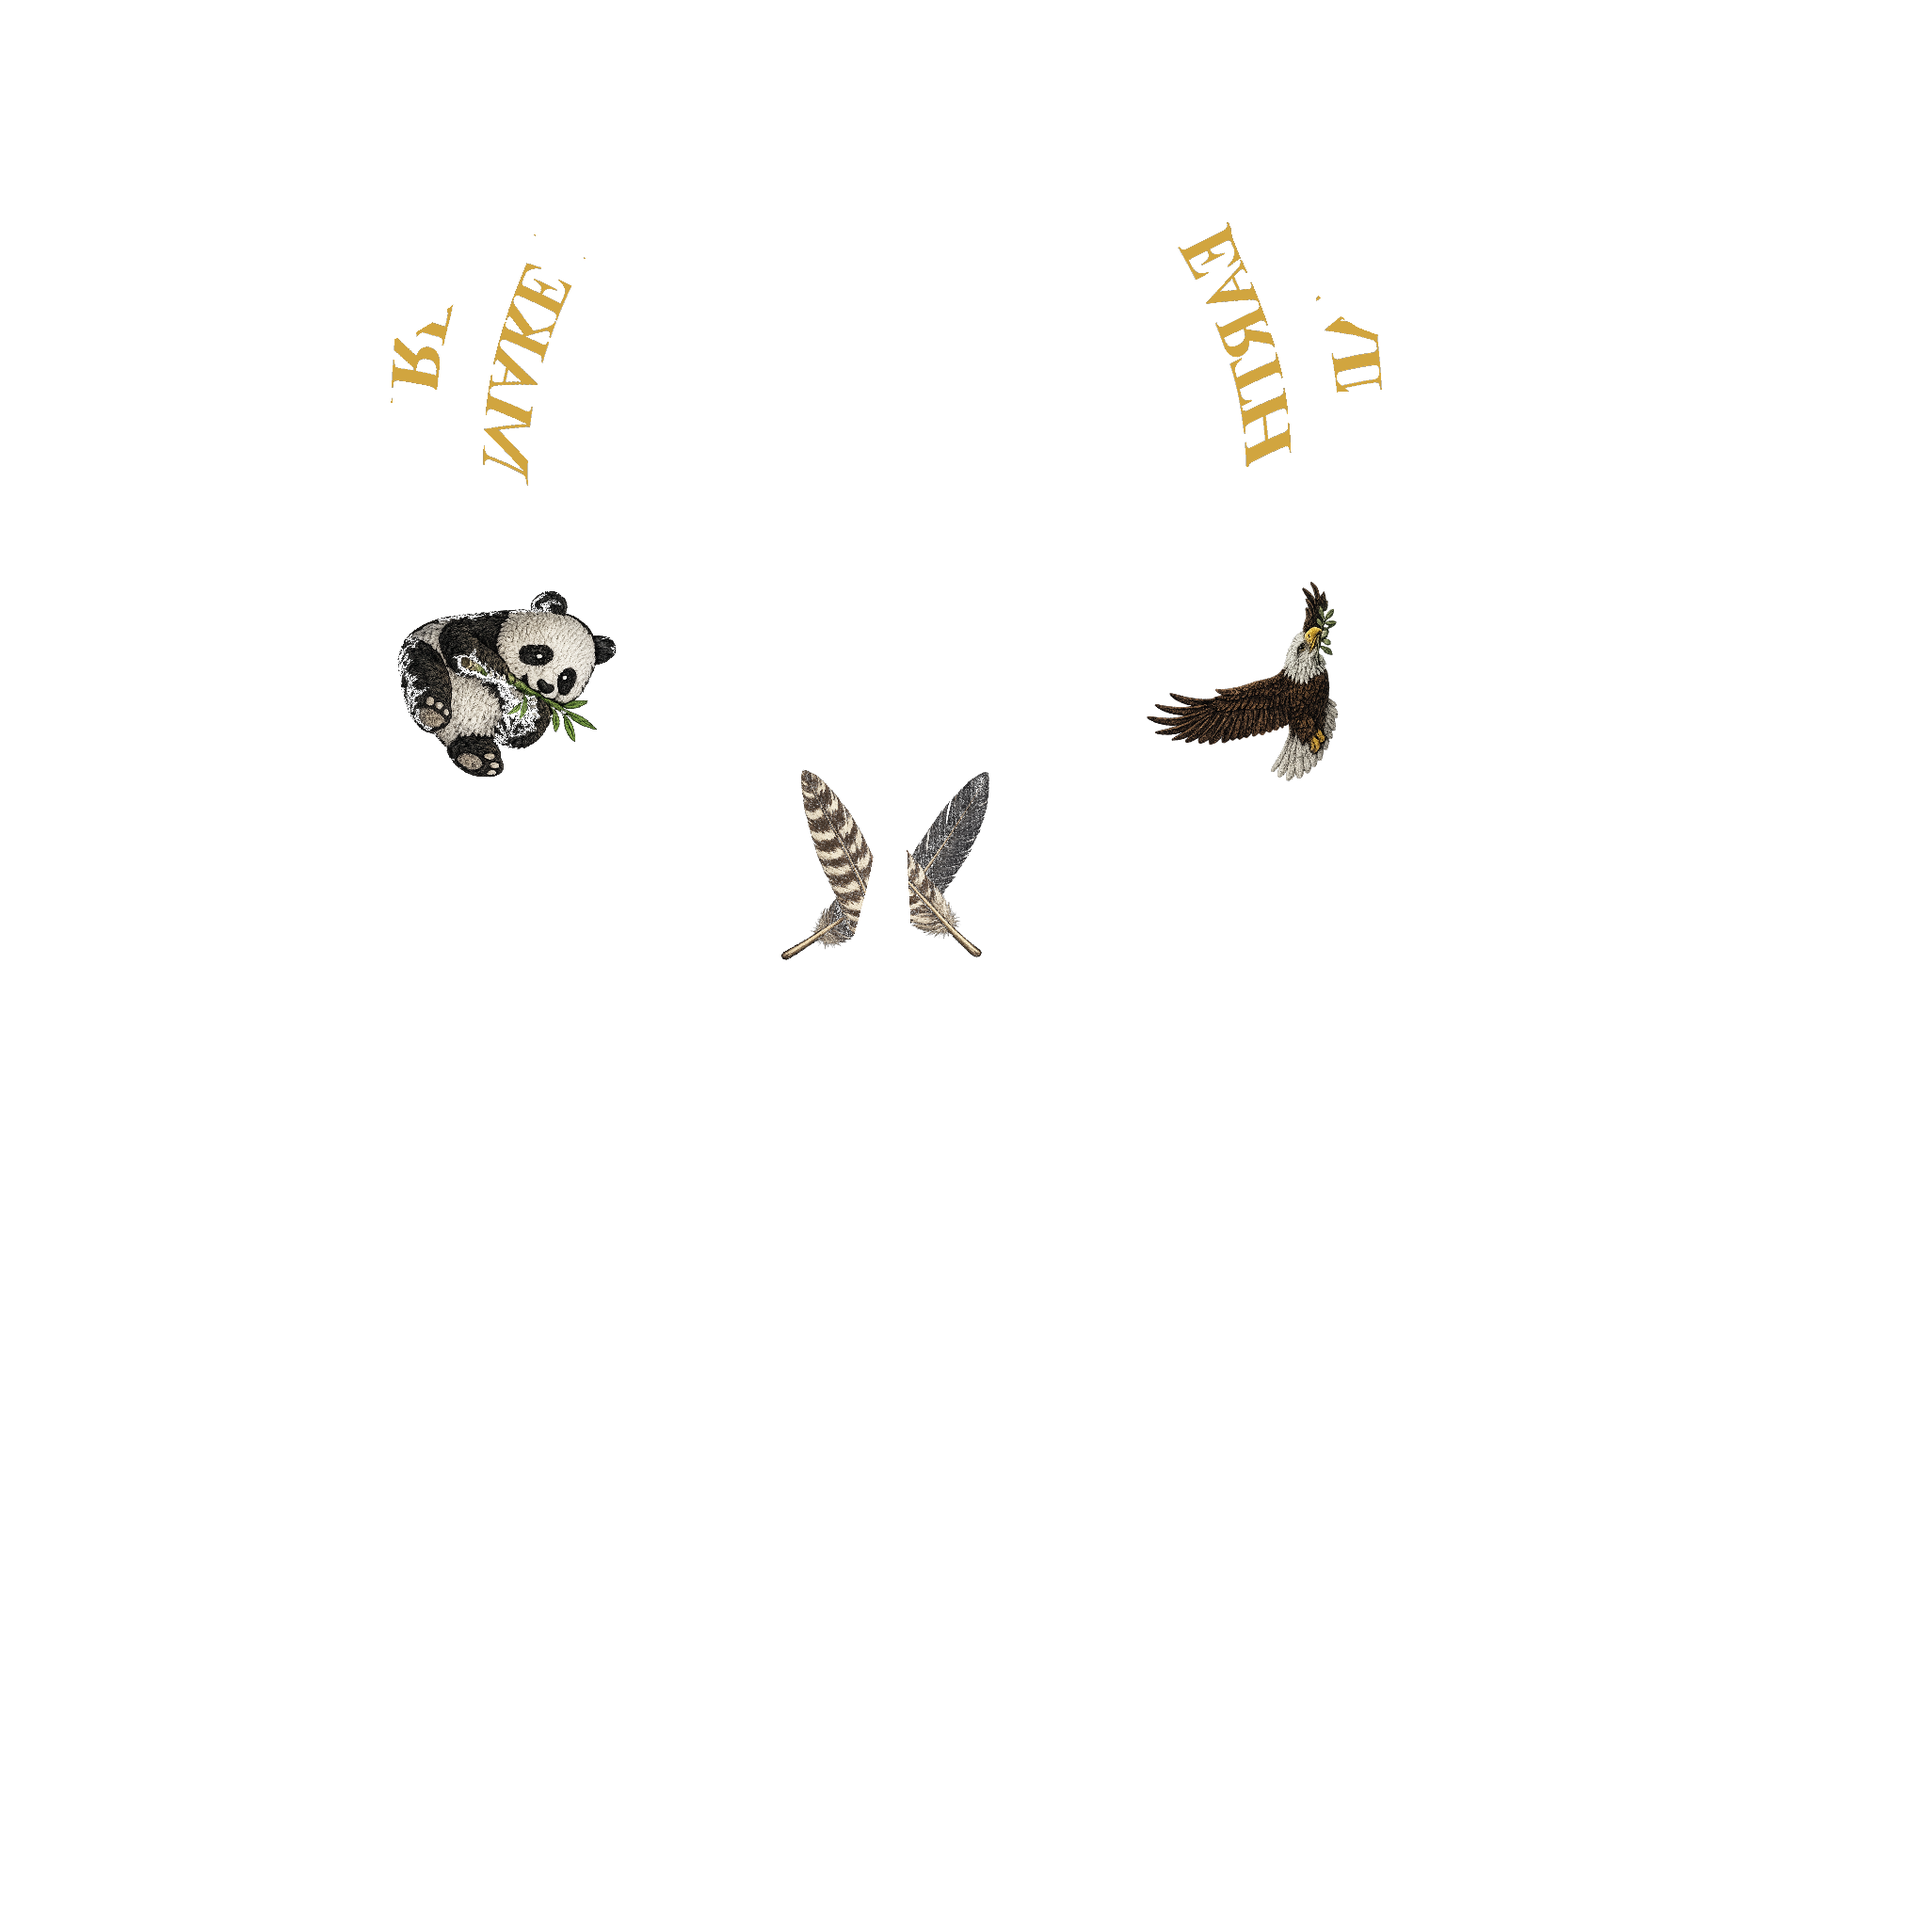
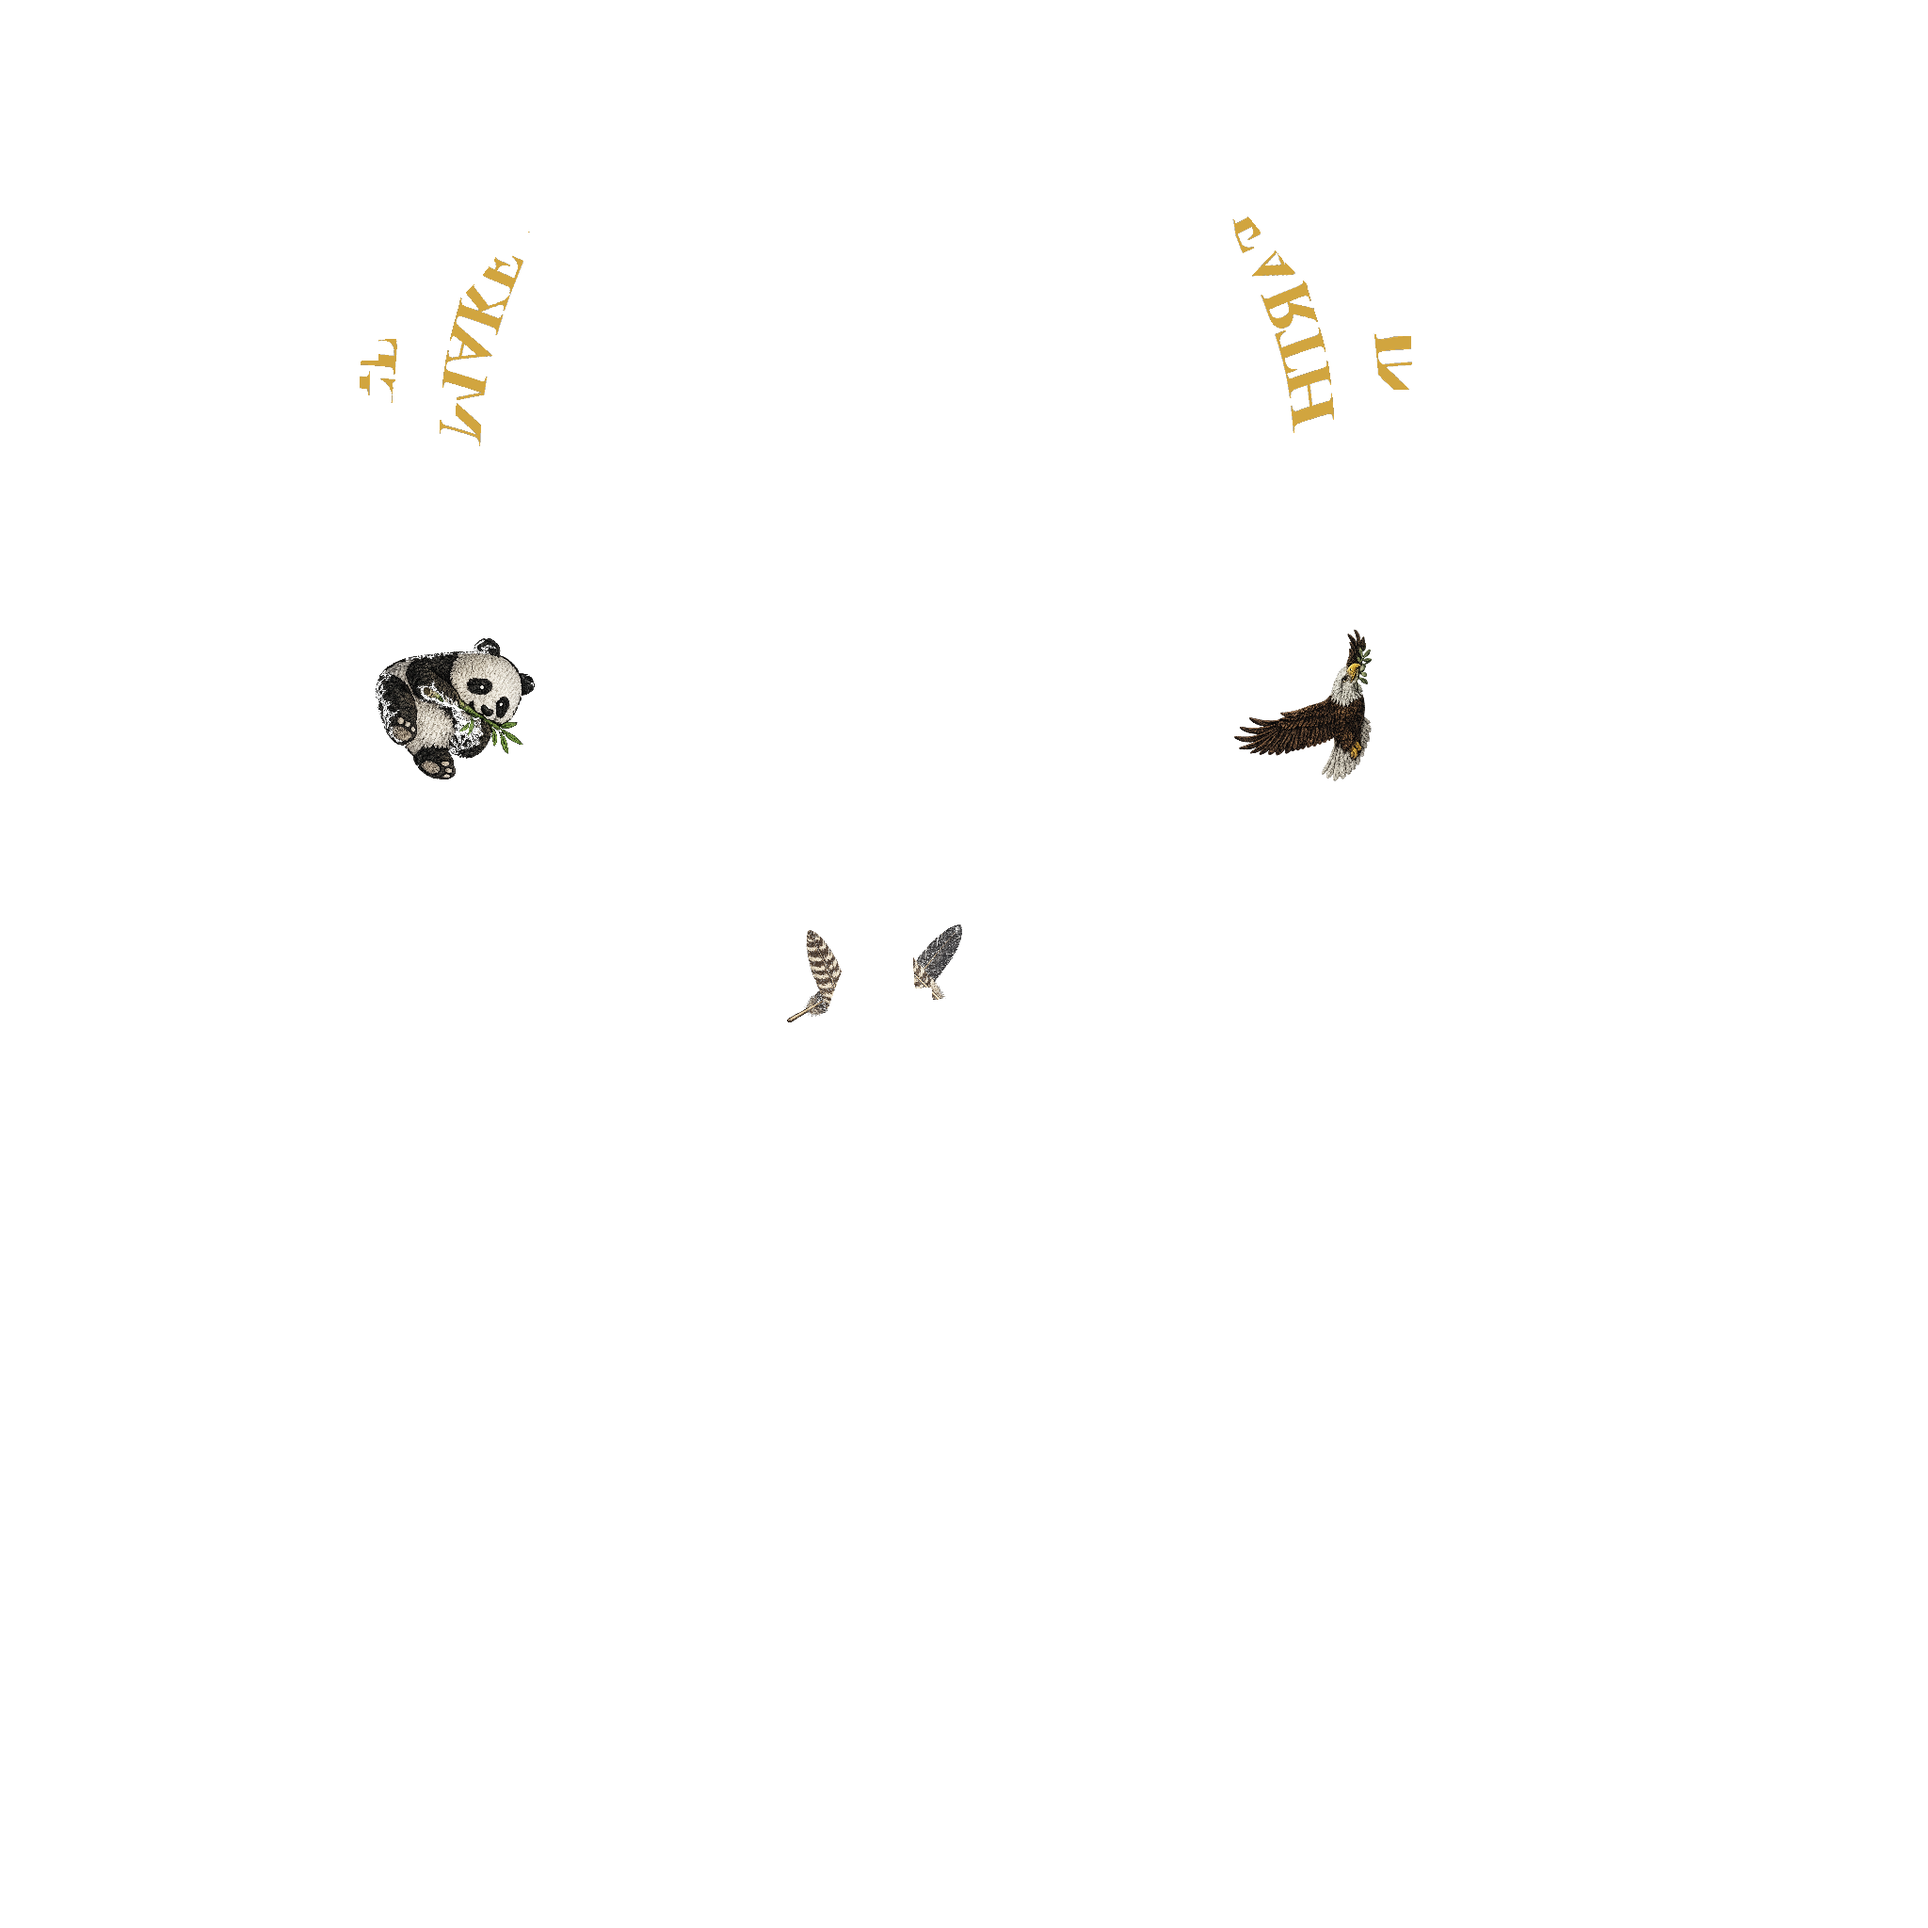
feat(hat): refine decal placement for high-fashion proportions
Smaller eagle/panda mascots, balanced text size, all decals at consistent
height (z~1.7-2.0). MEGA front text spans cap front face cleanly.
Crossed feathers painted on back-center panel (proportional to side mascots).

diff --git a/scripts/bake_cap_decals.py b/scripts/bake_cap_decals.py
@@ -131,34 +131,31 @@ def sample(img, sx, sy):
 # MEGA aspect 1024:407 ≈ 2.515.
 
 decals = [
-    # FRONT face (+y direction). Empirically: mesh +y → world +z (visible from default camera).
-    # Camera looks toward -z = mesh -y direction; viewer's right = world +x = mesh +x.
+    # FRONT face (mesh +y). MAKE EARTH GREAT AGAIN — bold, fills the front
+    # like a Trump MAGA cap. Positioned just above the brim line.
     dict(name='mega', img=dimg['mega'],
-         center=Vector((0.0, +3.5, 2.6)),
+         center=Vector((0.0, +3.5, 2.0)),
          du=Vector((+1, 0, 0)), dv=Vector((0, 0, 1)),
-         half_w=3.2, half_h=3.2/2.515,
-         x_lo=-4.0, x_hi=+4.0, y_lo=+1.0, y_hi=+5.0, z_lo=0.5, z_hi=5.4),
-    # CAP-LEFT side panel (-x direction). Viewer at mesh -x looking +x; right = mesh -y (back).
-    # Wait: empirically mesh -y is back, so viewer's right = mesh -y. But cross product gives +y for viewer at -x.
-    # Going with cross product math: forward=+x, up=+z, right = forward × up = +x × +z = -y.
+         half_w=3.0, half_h=3.0/2.515,
+         x_lo=-3.5, x_hi=+3.5, y_lo=+1.5, y_hi=+5.0, z_lo=0.5, z_hi=3.5),
+    # CAP-LEFT side panel (mesh -x). Embroidered mascot, well-proportioned.
     dict(name='panda', img=dimg['panda'],
-         center=Vector((-3.6, 0.0, 2.6)),
+         center=Vector((-3.7, 0.0, 1.8)),
          du=Vector((0, -1, 0)), dv=Vector((0, 0, 1)),
-         half_w=1.5, half_h=1.5,
-         x_lo=-5.0, x_hi=-1.5, y_lo=-2.0, y_hi=+2.0, z_lo=0.6, z_hi=4.8),
-    # CAP-RIGHT side panel (+x direction). Viewer at mesh +x looking -x; forward=-x, up=+z, right=-x × +z = +y.
+         half_w=1.1, half_h=1.1,
+         x_lo=-5.0, x_hi=-1.8, y_lo=-1.4, y_hi=+1.4, z_lo=0.5, z_hi=3.2),
+    # CAP-RIGHT side panel (mesh +x). Mirror of panda.
     dict(name='eagle', img=dimg['eagle'],
-         center=Vector((+3.6, 0.0, 2.6)),
+         center=Vector((+3.7, 0.0, 1.8)),
          du=Vector((0, +1, 0)), dv=Vector((0, 0, 1)),
-         half_w=1.5, half_h=1.5,
-         x_lo=+1.5, x_hi=+5.0, y_lo=-2.0, y_hi=+2.0, z_lo=0.6, z_hi=4.8),
-    # BACK panel (-y direction, strap). Viewer at mesh -y looking +y; forward=+y, up=+z, right=+y × +z = +x.
-    # Big decal w/ tight AABB means we only paint the center of the feathers image (where the X is).
+         half_w=1.1, half_h=1.1,
+         x_lo=+1.8, x_hi=+5.0, y_lo=-1.4, y_hi=+1.4, z_lo=0.5, z_hi=3.2),
+    # BACK panel center (mesh -y). Crossed feathers — proportional embroidery.
     dict(name='feathers', img=dimg['feathers'],
-         center=Vector((0.0, -3.4, 3.0)),
+         center=Vector((0.0, -3.7, 1.8)),
          du=Vector((+1, 0, 0)), dv=Vector((0, 0, 1)),
-         half_w=2.5, half_h=2.5,
-         x_lo=-1.4, x_hi=+1.4, y_lo=-5.0, y_hi=-2.0, z_lo=1.6, z_hi=4.6),
+         half_w=1.4, half_h=1.4,
+         x_lo=-1.6, x_hi=+1.6, y_lo=-5.0, y_hi=-1.8, z_lo=0.5, z_hi=3.2),
 ]
 
 atlas = [0.0] * (TEX * TEX * 4)
